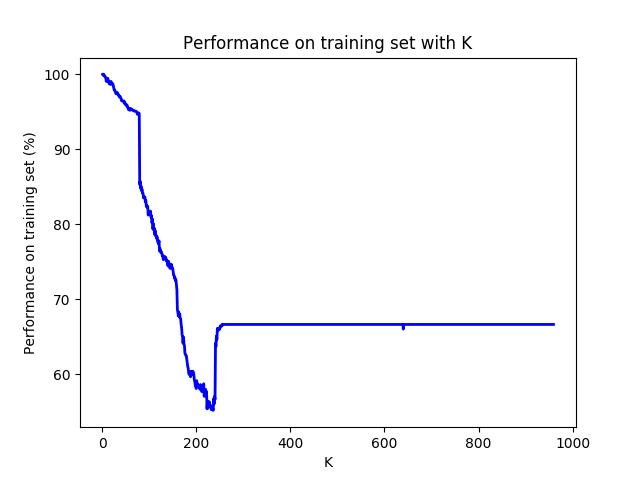
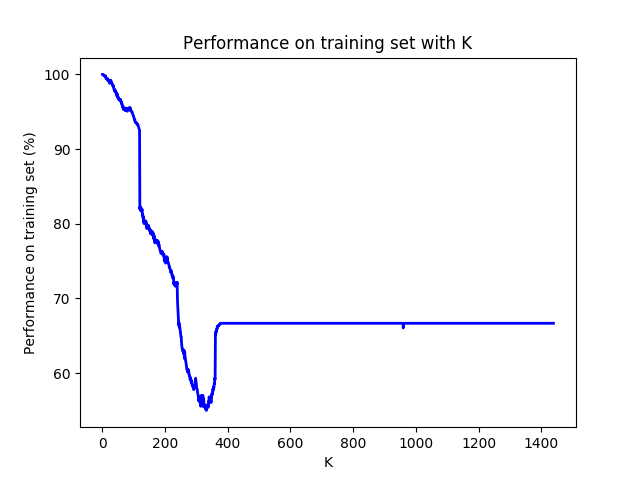
More data points

diff --git a/generate_data.py b/generate_data.py
@@ -17,7 +17,7 @@ def generate_data():
 
     for i in range(3):
         for j in range(8):
-            for k in range(40):
+            for k in range(60):
                 x_coord = (i - 0.5 + np.random.random_sample()) * np.cos(j/8 * 2*np.pi)
                 y_coord = (i - 0.5 + np.random.random_sample()) * np.sin(j/8 * 2*np.pi)
 
